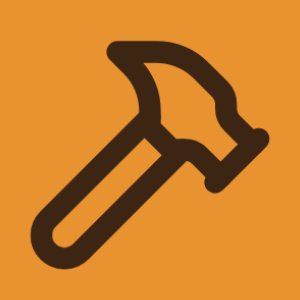
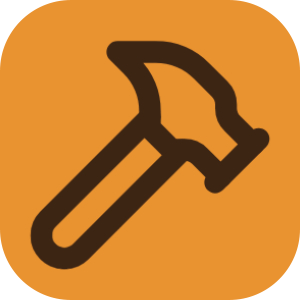
Add contact as well as update frountend and backend of createorder

diff --git a/src/components/custom/order/CreateOrderComp.tsx b/src/components/custom/order/CreateOrderComp.tsx
@@ -40,6 +40,10 @@ const formSchema = z.object({
     .string()
     .min(6, "Address must be at least 6 characters.")
     .max(100, "Address contain max 100 characters"),
+  contact: z
+    .string()
+    .min(11, "Number must be 11 words long")
+    .max(11, "Number must be 11 words long"),
   product_quantity: z.coerce
     .number()
     .min(1, "Min product is 1")
@@ -55,6 +59,7 @@ export default function CreateOrderComp({ listOfWoodCategorie }: any) {
   const [amountOfGlue, setAmountOfGlue] = useState(0);
   const [amountOfSkrews, setAmountOfSkrews] = useState(0);
   const [amountOfSandPapers, setAmountOfSandPapers] = useState(0);
+  const [amountOfPaint, setAmountOfPaint] = useState(0);
   const [finishingPrefrencesCost, setFinishingPrefrencesCost] = useState(0);
   const [quantityOfWood, setQuantityOfWood] = useState(0);
   const [isLoading, setIsLoading] = useState(false);
@@ -73,12 +78,15 @@ export default function CreateOrderComp({ listOfWoodCategorie }: any) {
       product_discription: "",
       aditional_info: "",
       address: "",
+      contact: "",
       product_quantity: 1,
       finishing_touch: "",
     },
   });
 
   async function onSubmit(data: z.infer<typeof formSchema>) {
+    // console.log(data);
+
     try {
       setIsLoading(true);
       const requestdata = {
@@ -88,6 +96,7 @@ export default function CreateOrderComp({ listOfWoodCategorie }: any) {
         amountOfSkrews: amountOfSkrews * data.product_quantity,
         amountOfSandPapers: amountOfSandPapers * data.product_quantity,
         quantityOfWood: quantityOfWood * data.product_quantity,
+        amountOfPaint: amountOfPaint * data.product_quantity,
         hours_of_construction: labourHours,
       };
       const res = await axios.post(
@@ -101,6 +110,16 @@ export default function CreateOrderComp({ listOfWoodCategorie }: any) {
       toast.error(error?.response?.data.message || "Order not created");
     } finally {
       setIsLoading(false);
+      form.reset();
+      setWoodCost(0);
+      setFinishingPrefrencesCost(0);
+      setNoOfProducts(1);
+      setLabourHours(0);
+      setQuantityOfWood(0);
+      setAmountOfGlue(0);
+      setAmountOfSkrews(0);
+      setAmountOfSandPapers(0);
+      setAmountOfPaint(0);
     }
   }
   return (
@@ -132,6 +151,7 @@ export default function CreateOrderComp({ listOfWoodCategorie }: any) {
                       setAmountOfGlue(selectedItem.glue);
                       setAmountOfSkrews(selectedItem.skrew);
                       setAmountOfSandPapers(selectedItem.others);
+                      setAmountOfPaint(selectedItem.polish);
                     } else {
                       router.refresh();
                     }
@@ -245,11 +265,37 @@ export default function CreateOrderComp({ listOfWoodCategorie }: any) {
                   <SelectContent>
                     {finishingPrefrences.map((e, n) => (
                       <SelectItem value={e.name} key={n}>
-                        {e.name}
+                        {e.type}
                       </SelectItem>
                     ))}
                   </SelectContent>
                 </Select>
+                {fieldState.invalid && (
+                  <FieldError errors={[fieldState.error]} />
+                )}
+              </Field>
+            )}
+          />
+
+          <Controller
+            name="contact"
+            control={form.control}
+            render={({ field, fieldState }) => (
+              <Field data-invalid={fieldState.invalid}>
+                <FieldLabel
+                  className="text-[#3D2514]"
+                  htmlFor="form-rhf-demo-constact"
+                >
+                  Contact Number
+                </FieldLabel>
+                <Input
+                  {...field}
+                  id="form-rhf-demo-constact"
+                  aria-invalid={fieldState.invalid}
+                  placeholder="03X-XXXXXXXX"
+                  autoComplete="off"
+                  className="focus:border-none"
+                />
                 {fieldState.invalid && (
                   <FieldError errors={[fieldState.error]} />
                 )}
@@ -380,6 +426,7 @@ export default function CreateOrderComp({ listOfWoodCategorie }: any) {
             setAmountOfGlue(0);
             setAmountOfSkrews(0);
             setAmountOfSandPapers(0);
+            setAmountOfPaint(0);
           }}
           disabled={isLoading}
         >

diff --git a/src/app/api/order/customer-create-order/route.ts b/src/app/api/order/customer-create-order/route.ts
@@ -3,12 +3,16 @@ import getUserIdFromSession from "@/lib/verifyuser";
 
 export async function POST(req: Request) {
   try {
+    // Verify user is logged in
     const userId = await getUserIdFromSession(req);
     if (!userId) {
       throw new Error("User not found");
     }
+
+    // Get data from frountend
     const {
       address,
+      contact,
       aditional_info,
       amountOfGlue,
       amountOfSandPapers,
@@ -21,9 +25,11 @@ export async function POST(req: Request) {
       product_wood_type,
       quantityOfWood,
       hours_of_construction,
+      amountOfPaint,
     } = await req.json();
     if (
       !address ||
+      !contact ||
       !amountOfGlue ||
       !amountOfSandPapers ||
       !amountOfSkrews ||
@@ -34,10 +40,13 @@ export async function POST(req: Request) {
       !product_type ||
       !product_wood_type ||
       !quantityOfWood ||
-      !hours_of_construction
+      !hours_of_construction ||
+      !amountOfPaint
     ) {
       throw new Error("Please enter all entities");
     }
+
+    // Cheak every product is available
     const woodType = await prisma.material.findFirst({
       where: { name: product_wood_type },
     });
@@ -65,11 +74,13 @@ export async function POST(req: Request) {
     const finishingUsed = await prisma.material.findFirst({
       where: { name: finishing_touch },
     });
+
+    // Create Order
     const createOrder = await prisma.order.create({
       data: {
         total_cost: Number(price_without_tax),
         address,
-        contact: address,
+        contact,
         userId,
         orderItem: {
           create: {
@@ -87,6 +98,40 @@ export async function POST(req: Request) {
     });
     if (!createOrder) {
       throw new Error("Order not created");
+    }
+
+    // Update Materials
+    if (finishingUsed) {
+      const updatePaint = await prisma.material.update({
+        where: { id: finishingUsed.id },
+        data: {
+          unit: finishingUsed.unit - amountOfPaint,
+        },
+      });
+      if (!updatePaint) {
+        throw new Error("Order created but material not updated");
+      }
+    }
+    const updateWood = await prisma.material.update({
+      where: { id: woodType.id },
+      data: {
+        unit: woodType.unit - quantityOfWood,
+      },
+    });
+    const updateSkrews = await prisma.material.update({
+      where: { id: skrewUsed.id },
+      data: { unit: skrewUsed.unit - amountOfSkrews },
+    });
+    const updateGlue = await prisma.material.update({
+      where: { id: glueUsed.id },
+      data: { unit: glueUsed.unit - amountOfGlue },
+    });
+    const updateSandPapers = await prisma.material.update({
+      where: { id: sandPaperUsed.id },
+      data: { unit: sandPaperUsed.unit - amountOfSandPapers },
+    });
+    if (!updateWood || !updateSkrews || !updateGlue || !updateSandPapers) {
+      throw new Error("Order created but material not updated");
     }
     return Response.json(
       {

diff --git a/src/data/InventoryData.ts b/src/data/InventoryData.ts
@@ -12,6 +12,7 @@ export const projectTypes = [
     glue: 0.3,
     skrew: 0.1,
     others: 0.1,
+    polish: 0.3,
   },
   {
     name: "Chairs",
@@ -20,6 +21,7 @@ export const projectTypes = [
     glue: 0.5,
     skrew: 0.2,
     others: 0.1,
+    polish: 0.3,
   },
   {
     name: "Tables",
@@ -28,6 +30,7 @@ export const projectTypes = [
     glue: 0.5,
     skrew: 0.2,
     others: 0.1,
+    polish: 0.3,
   },
   {
     name: "Desks",
@@ -36,6 +39,7 @@ export const projectTypes = [
     glue: 0.5,
     skrew: 0.2,
     others: 0.1,
+    polish: 0.3,
   },
   {
     name: "Chair & Desks",
@@ -44,6 +48,7 @@ export const projectTypes = [
     glue: 1,
     skrew: 0.4,
     others: 0.2,
+    polish: 0.6,
   },
   {
     name: "Dining Tables & 6 Chairs",
@@ -52,6 +57,7 @@ export const projectTypes = [
     glue: 3,
     skrew: 1,
     others: 0.4,
+    polish: 1.5,
   },
   {
     name: "Shelves/Book holder",
@@ -60,12 +66,13 @@ export const projectTypes = [
     glue: 1,
     skrew: 0.4,
     others: 0.1,
+    polish: 0.8,
   },
 ];
 
 export const finishingPrefrences = [
-  { name: "Natural/Clear", charges: 200 },
-  { name: "Wood Stain", charges: 500 },
-  { name: "Wood Paint", charges: 500 },
-  { name: "Wood Polish", charges: 500 },
+  { name: "Natural/Clear", type: "Natural/Clear", charges: 200 },
+  { name: "Wood Stain", type: "Stained", charges: 500 },
+  { name: "Wood Paint", type: "Painted", charges: 500 },
+  { name: "Wood Polish", type: "Polished", charges: 500 },
 ];

diff --git a/src/components/custom/inventory/InventoryList.tsx b/src/components/custom/inventory/InventoryList.tsx
@@ -95,7 +95,7 @@ export default function InventoryList({
                     <span
                       className={`text-2xl font-semibold ${e.unit < e.low_stock_threshold ? "text-red-500" : "text-[#6F4120]"}`}
                     >
-                      {e.unit}
+                      {e.unit.toFixed(2)}
                     </span>
                     <span className="text-gray-600">
                       /{e.low_stock_threshold}
